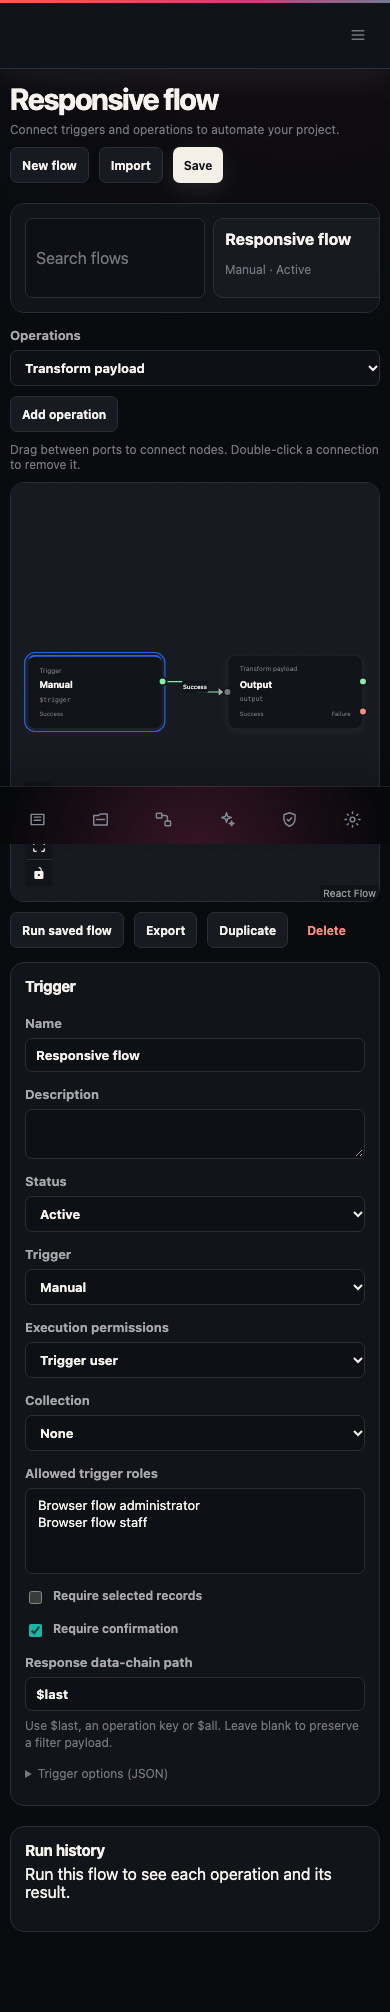
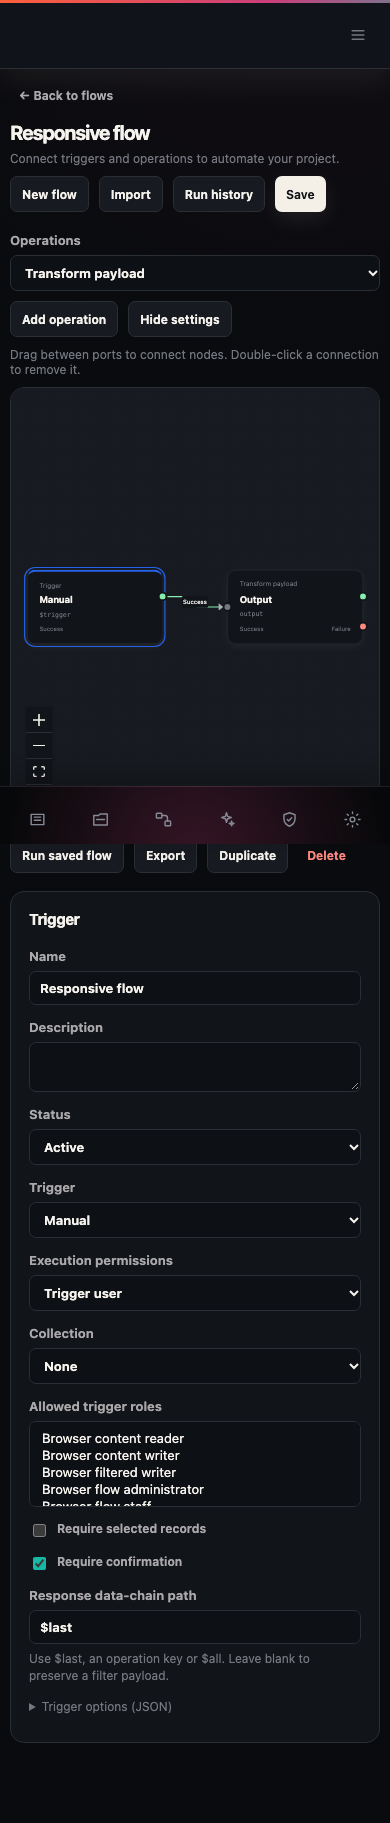
docs(flows): illustrate paginated workspace and native API access

diff --git a/docs/flows.md b/docs/flows.md
@@ -28,7 +28,11 @@ Start with [your first flow](#your-first-flow), then follow the [branching examp
 
 The **Flows** catalogue is a separate page with server-side search, status/trigger filters and pagination (10 flows per page by default; choose 10 or 20). Open a flow name or click **New flow** to enter its dedicated editor page. **Back to flows** restores the catalogue filters and page; unsaved edits require confirmation before leaving through this button. The editor keeps the list and run history out of the canvas area. **Hide settings** expands the canvas to the available width; selecting a node reopens its inspector. The mini map and React Flow attribution link are hidden. All Flow controls, including import errors, script settings and canvas controls, are translated in all eight Studio languages.
 
+![Separate Flow catalogue with server-side filters and 20-record pagination](assets/screenshots/studio-flows-list.png)
+
 To move a flow between projects, click **Export** to download its definition as a `.json` file. In **Import**, choose that file or paste its JSON, review the inactive draft, then click **Save** to create an independent flow. Files with a UTF-8 BOM are accepted. Invalid JSON and files larger than 20 MiB show an error inside the import dialog without replacing the current draft. This input limit allows formatted files; the native API still enforces its 256 KiB definition limit. Exports preserve triggers, node coordinates, connections, options and literal custom script source; server ids, revisions and run history are excluded. Dependencies referenced by scripts must be installed in the destination project, and selected users, roles and child-flow ids must be reviewed for that project.
+
+![JSON import dialog with a file chooser and editable portable definition](assets/screenshots/studio-flows-import.png)
 
 Double-click a connection to remove it. Removing an operation clears its incoming connections and trigger entry. Circular connections are rejected. Use **Duplicate**, **Export** and **Import** to reuse definitions; imports and duplicates start inactive and get a new id when saved. Export contains the definition, not run history. Saving or deleting a stale revision returns `FLOW_REVISION_CONFLICT` (409); reload before continuing.
 
@@ -274,11 +278,24 @@ Use [order calculation](flows-recipes.md#8-calculate-an-order-in-a-trusted-scrip
 
 Both list endpoints accept `limit` (1–100), `offset` (0–2147483647), `summary=1` and `meta=filter_count`. Counts appear as `meta.filter_count` beside the `data` array. Flow summaries omit graph definitions; run summaries omit input, actor, trace and output. Omit `summary` to retrieve complete page entries. `GET /flows` also accepts `search` (a literal name substring, at most 200 characters), `status=active|inactive` and `trigger=manual|event|webhook|schedule|operation`. Filters apply before pagination and counting. Invalid query values return `INVALID_FLOW_QUERY` (400). All list/count/export/history/detail requests enforce the same native read scope. Mutation and import requests require an Administrator; public webhooks and role-granted manual execution retain their independent trigger rules.
 
-For example, `GET /flows?limit=25&offset=25&summary=1&meta=filter_count&status=active` retrieves the second page of active flows. `GET /flows/FLOW_UUID/runs?limit=10&offset=10&summary=1&meta=filter_count` retrieves the second history page; request a selected run with `GET /flows/FLOW_UUID/runs/RUN_UUID`.
+For example, `GET /flows?limit=20&offset=20&summary=1&meta=filter_count&status=active` retrieves the second page of active flows. `GET /flows/FLOW_UUID/runs?limit=10&offset=10&summary=1&meta=filter_count` retrieves the second history page; request a selected run with `GET /flows/FLOW_UUID/runs/RUN_UUID`.
 
 For API-driven setup, create definitions with `POST /flows`, export with `GET /flows/:id/export`, and submit the downloaded JSON object directly to `POST /flows/import`. Imports always receive a new id and start inactive, even when the file says `active` or includes an old id/revision. `GET /flows/:id` also returns `meta.access.manage` and `meta.access.run` for the current caller. Preview import leaves no database record or run history. Studio uses the preview endpoint before displaying an imported draft, and uses the export endpoint for saved, unchanged flows; exporting an unsaved draft preserves that local draft.
 
 Grant read access through **Roles & Permissions → System resources → yuncms_flows → Read**, optionally with a filter such as `{"id":{"_in":["FLOW_UUID"]}}` or `{"user_created":{"_eq":"$CURRENT_USER"}}`. Native role metadata remains the single permission source. Read permission covers the full definition, including script source, and its history; field masks and delegated writes are unsupported. Unauthorized ids and histories outside the read filter return 404. An ordinary reader sees no creation/edit/import/delete controls, and can run only explicitly granted manual flows. Revoking read removes viewing/export/history access while a separate manual execution grant can still serve Content actions.
+
+The same setup works without Studio. With an Administrator bearer token, use the existing [Permissions API](rest-api.md) to `POST /permissions` with this body (replace both UUID placeholders):
+
+```json
+{
+  "role": "ROLE_UUID",
+  "collection": "yuncms_flows",
+  "action": "read",
+  "filter": { "id": { "_in": ["FLOW_UUID"] } }
+}
+```
+
+Use `PATCH /permissions/:id` or `DELETE /permissions/:id` to change or revoke that grant. To grant manual execution, update the flow through `PUT /flows/:id`, retaining its complete definition and current revision, with the role UUID in `options.allowed_roles`. Each endpoint applies the same authorization used by Studio; reading a definition does not permit importing or executing it.
 
 Example `POST /flows` body:
 
